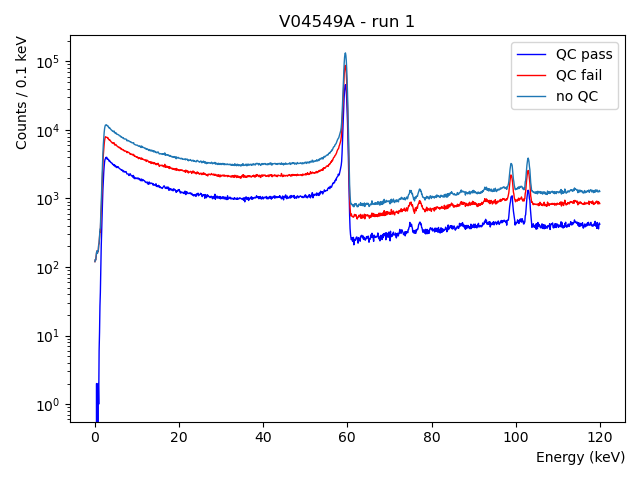
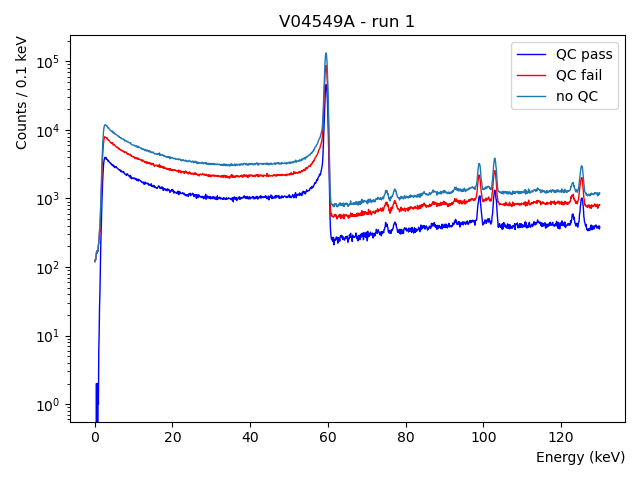
resolution curve

diff --git a/src/calibration.py b/src/calibration.py
@@ -99,9 +99,6 @@ def perform_calibration(detector, source, data_path, energy_filter, cuts, run):
     print("Calibrating...")
 
     if source == "Ba133":
-        # glines    = [80.9979, 160.61, 223.24, 276.40, 302.85, 356.01, 383.85] # gamma lines used for calibration
-        # range_keV = [(1,1),(1.5,1.5),(2,2),(2.5,2.5),(3,3),(3,3),(3,3)] # side bands width
-
         glines    = [80.9979, 160.61, 223.24, 276.40, 302.85, 356.01, 383.85] # gamma lines used for calibration
         range_keV = [(1,1),(1.5,1.5),(2.5,2.5),(2.5,2.5),(3,3),(3,3),(3,3)] # side bands width
 

diff --git a/processDetectors.py b/processDetectors.py
@@ -19,7 +19,7 @@ def main():
     # EDIT PROCESSING CONFIG BELOW
     #====================================================
     order_list = [2,4,5,7,8,9] #List of orders to process
-    source = "Ba133" #"Ba133", "Am241_HS1" or "Am241_HS6"
+    source = "Am241_HS1" #"Ba133", "Am241_HS1" or "Am241_HS6"
     energy_filter="cuspEmax_ctc"
     cuts=True
     #-----------------------------------------------------
